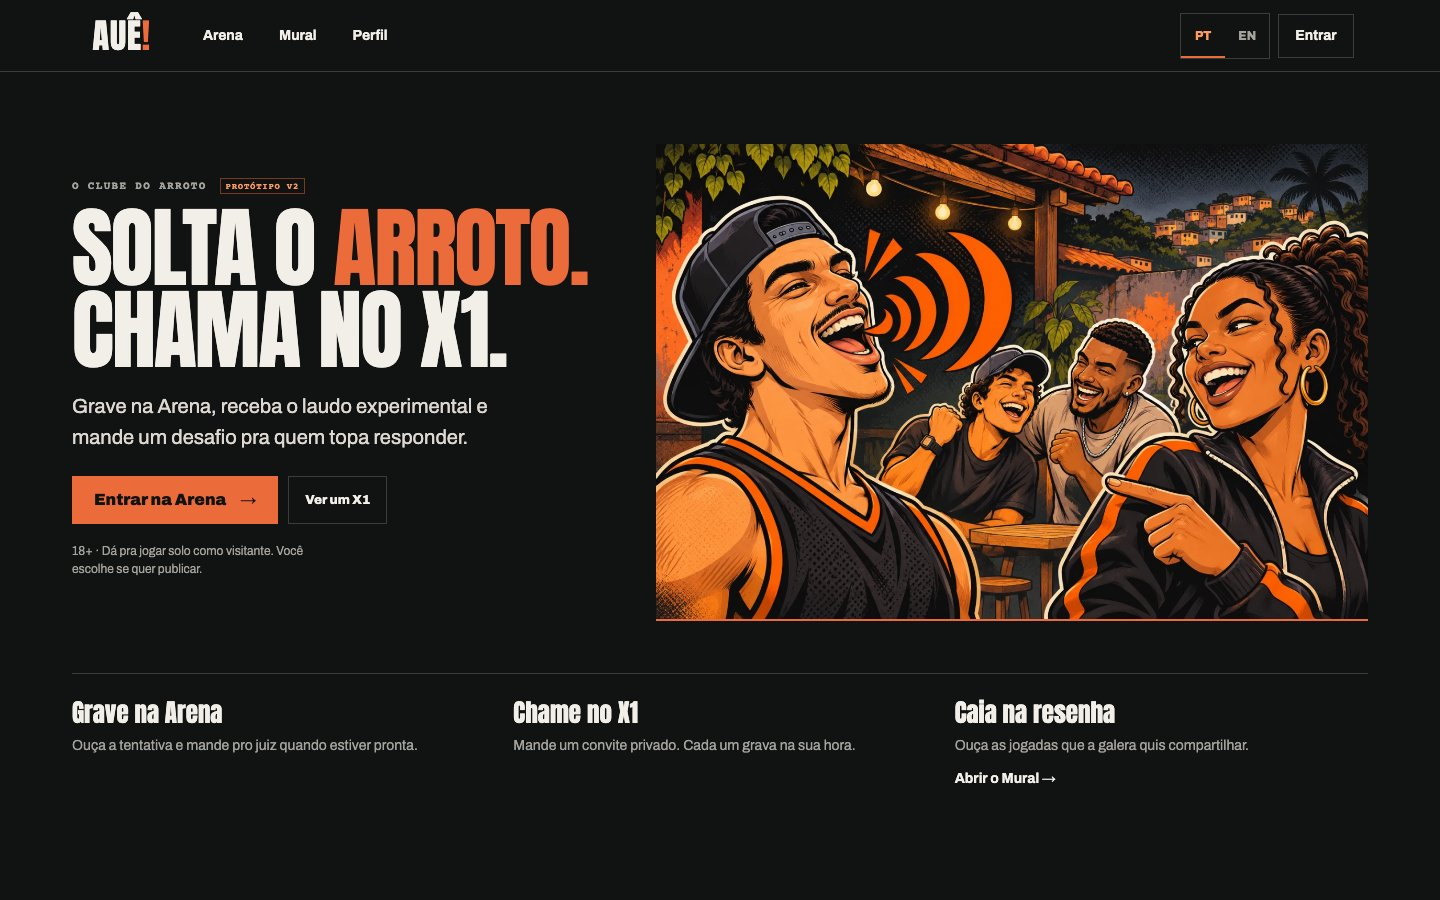
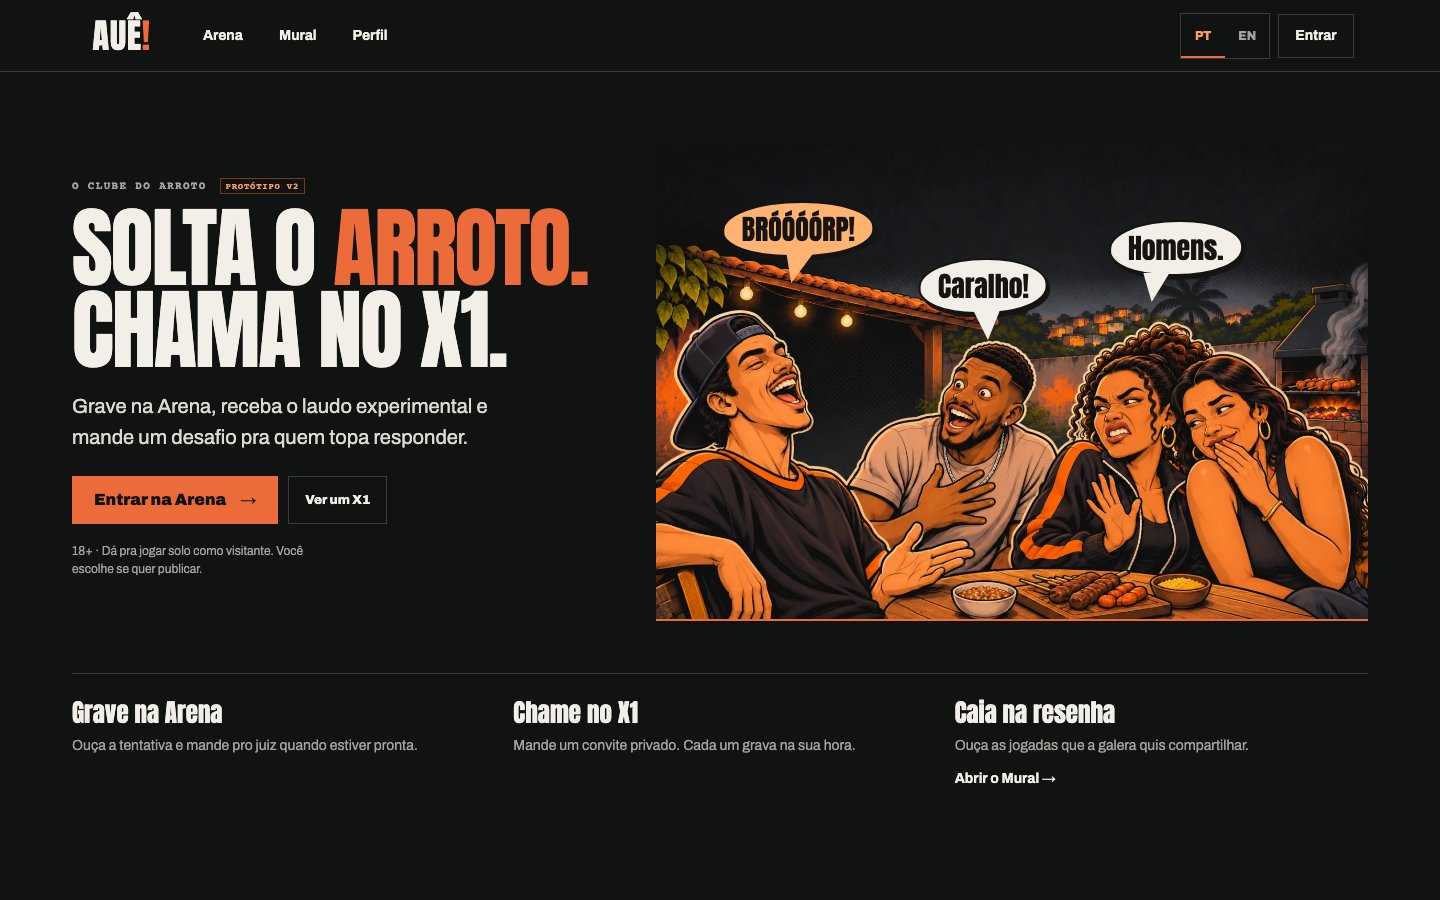
docs(m05): ilustrar churrasco na home do protótipo

Changed region(s): [[0.4375, 0.1556, 0.9688, 0.7156]]

diff --git a/docs/missoes/m05/prototipo/index.html b/docs/missoes/m05/prototipo/index.html
@@ -48,7 +48,14 @@
             </div>
             <p class="fine">18+ · Dá pra jogar solo como visitante. Você escolhe se quer publicar.</p>
           </div>
-          <img class="rivalry-art" src="hero-rivalidade.webp" width="1360" height="907" alt="Dois amigos se provocam num X1 de arroto, com ondas laranja e a turma rindo ao fundo." />
+          <figure class="barbecue-panel">
+            <img class="barbecue-art" src="hero-churrasco.webp" width="1360" height="907" alt="Quatro amigos à mesa num churrasco. O de boné arrota, o amigo do meio se espanta e duas amigas fazem cara de nojo." />
+            <figcaption class="barbecue-dialogue">
+              <span class="comic-bubble comic-burp"><span class="comic-speaker">Arroto: </span>BRÓÓÓÓRP!</span>
+              <span class="comic-bubble comic-friend"><span class="comic-speaker">Amigo: </span>Caralho!</span>
+              <span class="comic-bubble comic-reply"><span class="comic-speaker">Amiga: </span>Homens.</span>
+            </figcaption>
+          </figure>
         </div>
         <div class="public-guide" aria-label="Como funciona">
           <section><h2>Grave na Arena</h2><p>Ouça a tentativa e mande pro juiz quando estiver pronta.</p></section>
@@ -69,7 +76,14 @@
             </div>
             <p class="fine">18+ · Play solo as a guest. You choose what to post. The game demo is in Portuguese.</p>
           </div>
-          <img class="rivalry-art" src="hero-rivalidade.webp" width="1360" height="907" alt="Two adult friends in a playful burping face-off, with orange sound waves and their friends laughing." />
+          <figure class="barbecue-panel">
+            <img class="barbecue-art" src="hero-churrasco.webp" width="1360" height="907" alt="Four friends around a backyard barbecue. The guy in the cap burps, his friend looks startled, and two women look disgusted." />
+            <figcaption class="barbecue-dialogue">
+              <span class="comic-bubble comic-burp"><span class="comic-speaker">Burp: </span>BUUUUURP!</span>
+              <span class="comic-bubble comic-friend"><span class="comic-speaker">Friend: </span>Holy shit!</span>
+              <span class="comic-bubble comic-reply"><span class="comic-speaker">Woman: </span>Men.</span>
+            </figcaption>
+          </figure>
         </div>
         <div class="public-guide" aria-label="How to play">
           <section><h2>Record in the Arena</h2><p>Listen back and send your attempt to the judge.</p></section>

diff --git a/docs/missoes/m05/prototipo/edicao-v2.css b/docs/missoes/m05/prototipo/edicao-v2.css
@@ -84,11 +84,70 @@ body[data-surface="club"] .language-toggle {
 .public-actions .cta {
   gap: 14px;
 }
-.rivalry-art {
+.barbecue-panel {
+  container-type: inline-size;
+  position: relative;
+  min-width: 0;
+  margin: 0;
+  border-bottom: 2px solid var(--copper);
+}
+.barbecue-art {
   display: block;
   width: 100%;
   height: auto;
-  border-bottom: 2px solid var(--copper);
+}
+.barbecue-dialogue {
+  position: absolute;
+  inset: 0;
+  pointer-events: none;
+}
+.comic-bubble {
+  position: absolute;
+  left: var(--bubble-x);
+  top: var(--bubble-y);
+  transform: translateX(-50%);
+  padding: 1.5cqw 2.4cqw;
+  border: 2px solid #151412;
+  border-radius: 52% 46% 49% 44%;
+  background: var(--bubble-color, #f2efe9);
+  color: #161310;
+  box-shadow: .35cqw .5cqw #151412;
+  font: 400 clamp(13px, 3.9cqw, 29px)/1.1 var(--display);
+  white-space: nowrap;
+}
+.comic-bubble::after {
+  position: absolute;
+  top: calc(100% - 1px);
+  left: var(--tail-x, 42%);
+  width: 3.7cqw;
+  height: 4.1cqw;
+  background: var(--bubble-color, #f2efe9);
+  clip-path: polygon(0 0, 100% 0, var(--tail-tip, 55%) 100%);
+  content: "";
+}
+.comic-burp {
+  --bubble-x: 20%;
+  --bubble-y: 12%;
+  --bubble-color: #ffb373;
+  --tail-tip: 18%;
+}
+.comic-friend {
+  --bubble-x: 46%;
+  --bubble-y: 24%;
+}
+.comic-reply {
+  --bubble-x: 73%;
+  --bubble-y: 16%;
+  --tail-x: 25%;
+  --tail-tip: 32%;
+}
+.comic-speaker {
+  position: absolute;
+  width: 1px;
+  height: 1px;
+  overflow: hidden;
+  clip-path: inset(50%);
+  white-space: nowrap;
 }
 .public-guide {
   display: grid;
@@ -592,4 +651,13 @@ dialog {
 .x1-states [aria-pressed="true"] {
   color: var(--copper2);
   border-bottom-color: var(--copper);
+}
+
+.toast:empty {
+  visibility: hidden;
+}
+@media (max-width: 680px) {
+  .public-actions .outline {
+    padding-inline: 12px;
+  }
 }

diff --git a/docs/missoes/m05/prototipo/comparativo.html b/docs/missoes/m05/prototipo/comparativo.html
@@ -69,7 +69,7 @@
         </select>
       </label>
     </div>
-    <p id="change" aria-live="polite">A ilustração de rivalidade substitui a foto de microfone. O convite, a Arena e a resenha aparecem na primeira página.</p>
+    <p id="change" aria-live="polite">A foto de microfone dá lugar a uma roda de churrasco, com três balões que mudam entre PT e EN. O convite, a Arena e a resenha aparecem na primeira página.</p>
     <div class="comparison" data-device="desktop">
       <figure>
         <h2>V1</h2>
@@ -93,7 +93,7 @@
   </main>
   <script>
     const descriptions = {
-      home: 'A ilustração de rivalidade substitui a foto de microfone. O convite, a Arena e a resenha aparecem na primeira página.',
+      home: 'A foto de microfone dá lugar a uma roda de churrasco, com três balões que mudam entre PT e EN. O convite, a Arena e a resenha aparecem na primeira página.',
       arena: 'A mesa de desafios reúne recebido, em andamento e histórico, enquanto gravar continua sendo a ação principal.',
       gravacao: 'O gravador continua no lobby. O estado de captura fica visível ao lado dos caminhos para voltar ao jogo.',
       resultado: 'A nota ficou menor. O player e as ações de convidar, tentar de novo ou publicar passaram a dividir a tela.',

diff --git a/docs/missoes/m05/REVISAO-V2.md b/docs/missoes/m05/REVISAO-V2.md
@@ -6,7 +6,7 @@ A segunda rodada responde à avaliação de Luiz. A força visual fica na Home. 
 
 | Superfície | V1 | V2 |
 |---|---|---|
-| Home PT/EN | Título sobre foto de microfone e resumo lateral | Ilustração de rivalidade amistosa, CTA antes da imagem no mobile e explicação curta de Arena, X1 e Mural |
+| Home PT/EN | Título sobre foto de microfone e resumo lateral | Roda de churrasco com onomatopeia e falas em PT e EN, CTA antes da imagem no mobile e explicação curta de Arena, X1 e Mural |
 | Arena | Gravador central com informações de apoio | Lobby com gravação, mesa de desafios recebidos, em andamento e encerrados, ficha e entrada para novo X1 |
 | Gravação e laudo | Captura e laudo dominados por texto e nota central | Captura no lobby com estado visível. Nota, player e ações de convidar, tentar de novo e publicar dividem o laudo |
 | X1 | Medições em blocos e players abaixo | Avatar, nome, duração e player de cada pessoa no próprio lado. Expiração e revogação ocultam a mídia |
@@ -23,7 +23,8 @@ Batalhas publicadas e destaques de recorde aparecem como **formatos em proposta*
 | [Arte de comando](../../../public/ilustracoes/como-arrotar-comando-codex.png) | Referência para o contorno forte e as ondas laranja. Entra no primeiro quadro e na capa do clipe do Mural. O DOM publicado cita a arte na Home PT, na Home EN e no guia. |
 | [Arte da roda](../../../public/ilustracoes/como-arrotar-postura-codex.png) | Reuso direto na publicação de imagem e no segundo quadro do clipe. É referência de camaradagem para a nova Home. O DOM publicado cita a arte na Home PT e no guia. |
 | [Arte de gás](../../../public/ilustracoes/como-arrotar-gas-codex.png) e capas de comunidade | Inventariadas para reconhecer o repertório. A primeira fica como referência do guia. As capas pertencem aos espaços legados. |
-| [Cena de rivalidade](prototipo/hero-rivalidade.webp) | Nova ilustração feita com ImageGen usando as referências do Auê. A Home usa a composição inteira. Ficha, X1 e Mural usam recortes dos personagens fictícios como avatares. |
+| [Cena de rivalidade](prototipo/hero-rivalidade.webp) | Nova ilustração feita com ImageGen usando as referências do Auê. Ficha, X1 e Mural usam recortes dos personagens fictícios como avatares. |
+| [Churrasco](prototipo/hero-churrasco.webp) | Arte da Home aprovada para o protótipo. Balões em texto, localização PT e EN e a mesma imagem nas duas versões. |
 | [PlayerDoArroto](../../../src/features/novo-aue/PlayerDoArroto.tsx), [CardDoPost](../../../src/features/novo-aue/CardDoPost.tsx), [ModalCompositor](../../../src/features/novo-aue/ModalCompositor.tsx) e [ThreadDeComentarios](../../../src/features/novo-aue/ThreadDeComentarios.tsx) | Referências para onda, cor, composição e conversa. O player local conserva o áudio HTML e oferece controles próprios. As duas amostras são as sintéticas da V1. |
 | [Anton e Archivo](../../../public/fonts) e [componentes de X1](../../../src/arena/v2/duelo) | Tipos carregados dos arquivos existentes. Os contratos do X1 servem de referência, com a jornada funcionando na camada de demonstração. |
 
@@ -36,10 +37,19 @@ Create an original illustrated hero artwork for the Auê adult Brazilian burping
 
 </details>
 
+<details>
+<summary>Pedido e edição da arte do churrasco no ImageGen</summary>
+
+Create a new ORIGINAL landscape illustration for the hero area of Auê, a Brazilian adult burp game, matching the user's attached existing Auê artwork as a style reference only. 3:2 canvas. An instantly readable comedy comic panel of FOUR ADULT FRIENDS at a modest backyard Brazilian churrasco at dusk. Compose as follows, strictly: adult male friend in a backwards charcoal cap at LEFT, around x=20%, lets out a comically long burp, mouth open casually, in a loose black-and-orange shirt; adult male friend around x=46% dead center watches with wide eyes and raised eyebrows, a spontaneous hilarious 'holy shit' reaction; TWO adult women grouped on the RIGHT, around x=74% and 88%, make expressive joking disgust faces, one side-eye with lips curled, one recoils just slightly and shares a knowing look, palpable affectionate friendship. Make each face easy to distinguish from the others. All four heads and mouths should sit in a readable band around 42%-60% down the image, not in the top quarter. Reserve a genuinely quiet top 25% across the full width, naturally dark charcoal wall or dark shaded awning, with NO heads, people, lettering or foreground objects in that top band. The web app will put three independently localized speech bubbles in that reserved space above LEFT, CENTER and RIGHT characters. Background details only in the remaining space: smoky small brick or black backyard charcoal grill off to the right with skewers and glowing coals, simple outdoor table to connect the group, tiled roof, leafy dusk subtly, neighborhood lights. The grill and familiar details should make the location unmistakable. No bottles, no alcoholic drinks. Mid shot from waist up, funny and human, bold creamy rim contours, strong black ink, orange accents, skin tones, graphite blacks, fine print halftone, crisp graphic-novel shapes, premium contemporary Brazilian sports comics. Do not draw any speech bubbles, tails, sound waves, phonetic effects, words, logos or lettering; the three speech bubbles are separately added in the UI. No microphones, no fetish framing, no childish caricature, no aggressive strain. Single continuous composition, proper human anatomy, all four friends visibly distinct, no extra people.
+
+Precisely edit the supplied image without changing the rest. Erase EVERY bright orange graphic sound-wave crescent, from the little flare touching the left man's mouth through the largest crescent, in the localized area between the left man and the middle man. The place where these graphic shapes were must now show the continuous natural dark charcoal wall in shadow behind them, with the same comic halftone texture. Ensure the left man's face, teeth, hair, and all four people's exact poses, the grill/table, lighting, and frame remain. Remove the little orange sprout sticking out of his mouth too, leaving his unobstructed normal drawn open mouth. The orange colors of shirts, warm lights and scenery remain. Do not add any replacement symbols, text, lines, waves, bubbles, glow or new decoration. Only remove the graphic crescents and reconstruct background.
+
+</details>
+
 ## Cor e prova
 
 Abra a mesma V2 em [cobre, #EC6B3A](prototipo/index.html?cor=cobre) e no [laranja atual, #FF5500](prototipo/index.html?cor=saturado). O cobre dá continuidade à paleta da primeira proposta e deixa a ilustração puxar o laranja saturado. O laranja atual reforça a assinatura que já aparece no botão de gravar e no player do Auê. A escolha aguarda o aceite de Luiz.
 
-As 28 capturas comparam a V1 do commit 91b63b9 e a V2 em Chromium nos mesmos estados, a 1440 × 900 e 390 × 844. Renan confirmou largura sem rolagem lateral a 320, 390 e 1440 px, teclado, troca de idioma, player com seek por teclado, fluxo de convite e resposta, filtros e compositor. A publicação de áudio só habilita após o consentimento. A prova usa navegador e dados locais. Microfone, codecs em aparelhos físicos, autenticação e serviços hospedados ainda pedem homologação antes de publicar.
+As 28 capturas comparam a V1 do commit 91b63b9 e a V2 em Chromium nos mesmos estados, a 1440 × 900 e 390 × 844. Renan confirmou largura sem rolagem lateral a 320, 390 e 1440 px, teclado, troca de idioma, player com seek por teclado, fluxo de convite e resposta, filtros e compositor. A publicação de áudio só habilita após o consentimento. Renan também conferiu a arte do churrasco e os três balões em PT e EN nas mesmas larguras. O comparativo mostra a Home atualizada. A prova usa navegador e dados locais. Microfone, codecs em aparelhos físicos, autenticação e serviços hospedados ainda pedem homologação antes de publicar.
 
 Felipe conduziu a composição. Camillo inventariou a base e adaptou os players. Marcelo deu parecer favorável à apresentação e pediu rótulos explícitos nos dados de exemplo. Renan registrou **SEM ACHADOS MATERIAIS** no recorte local. A implementação aguarda aprovação visual e funcional do Product Owner.
